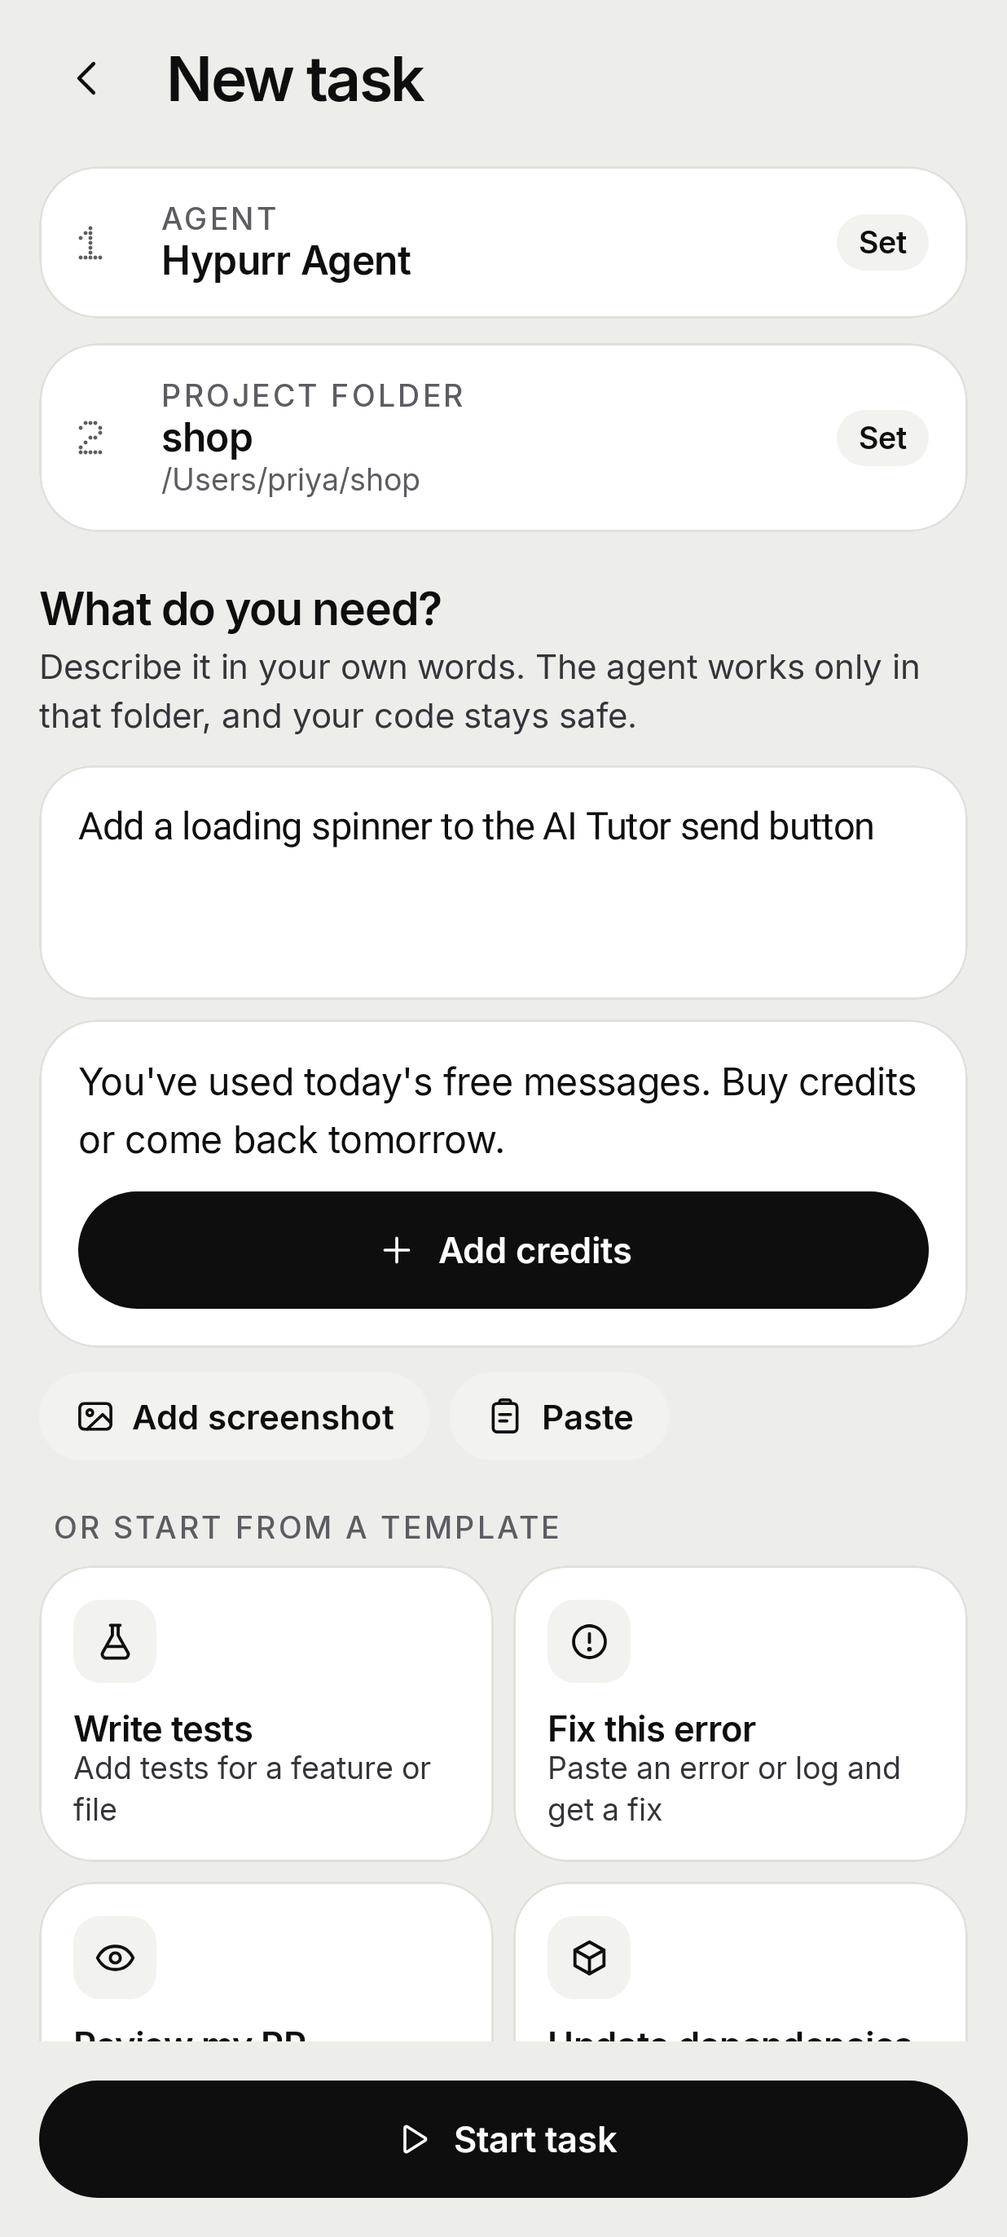
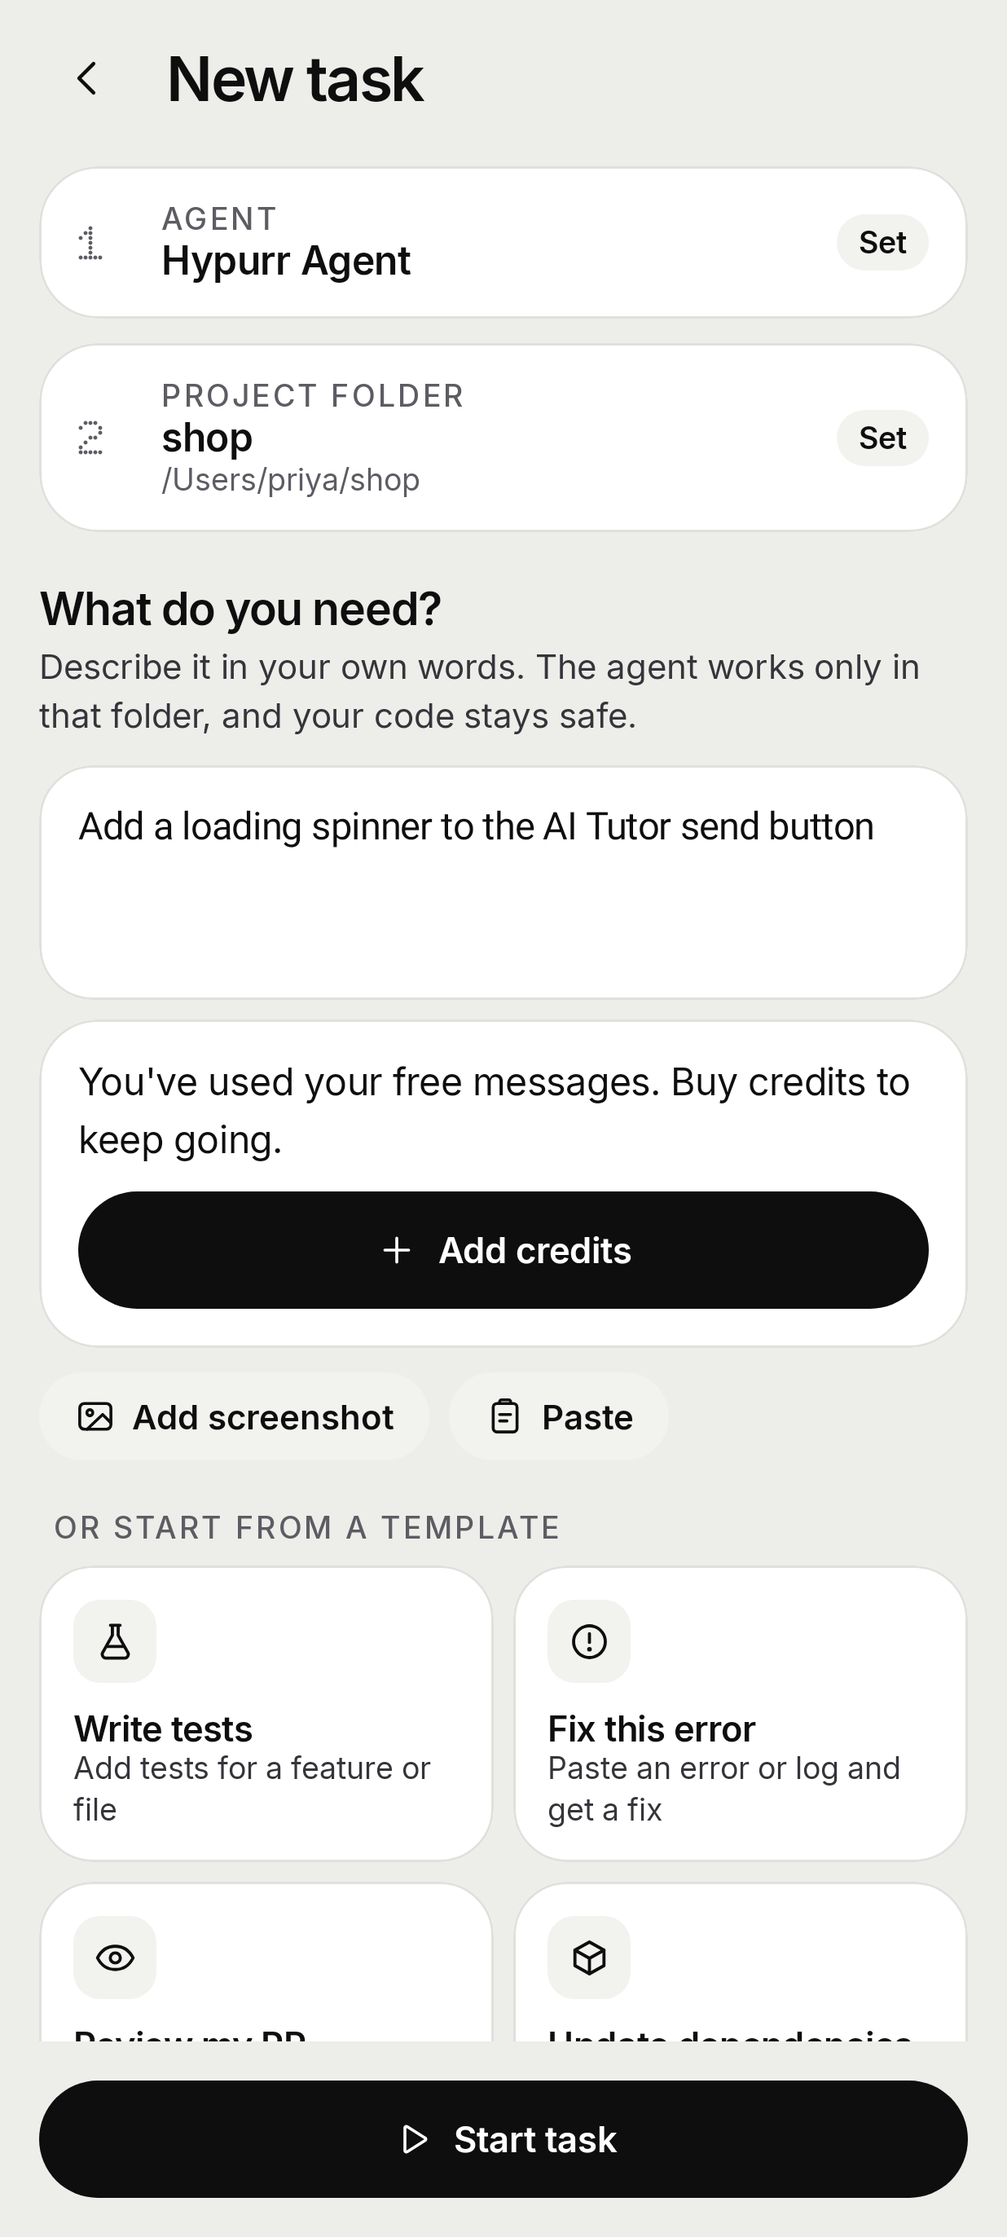
Free allowance is lifetime (10 messages, 300k tokens); trial tied to hashed machine id, 2 keys/IP/day; reinstall rotates key, same allowance; new wording

Changed region(s): [[0.3074, 0.4645, 0.9223, 0.5264], [0.0922, 0.4954, 0.3074, 0.5264]]

diff --git a/cloud/test/gateway/gateway.test.ts b/cloud/test/gateway/gateway.test.ts
@@ -60,6 +60,9 @@ function memoryDb() {
             const subject = binds[0];
             return (tables.gateway_credits.find((r) => r.subject_id === subject) as T) ?? null;
           }
+          if (sql.includes("gateway_api_keys") && sql.includes("WHERE host_id = ?")) {
+            return (tables.gateway_api_keys.find((r) => r.host_id === binds[0] && r.kind === "trial" && !r.revoked_at) as T) ?? null;
+          }
           if (sql.includes("gateway_api_keys") && sql.includes("key_hash")) {
             const hash = binds[0];
             const row = tables.gateway_api_keys.find((r) => r.key_hash === hash && !r.revoked_at);
@@ -133,7 +136,10 @@ function memoryDb() {
           if (sql.includes("INSERT INTO gateway_usage")) {
             tables.gateway_usage.push({ binds: [...binds] });
           }
-          if (sql.includes("INSERT INTO gateway_api_keys")) {
+          if (sql.includes("INSERT INTO gateway_api_keys") && sql.includes("'trial', 'trial'")) {
+            const [id, host_id, key_hash, key_prefix, created_at] = binds as any;
+            tables.gateway_api_keys.push({ id, user_id: null, host_id, key_hash, key_prefix, kind: "trial", created_at, revoked_at: null });
+          } else if (sql.includes("INSERT INTO gateway_api_keys")) {
             tables.gateway_api_keys.push({
               id: binds[0],
               user_id: binds[1],
@@ -145,6 +151,10 @@ function memoryDb() {
               created_at: binds[7],
               revoked_at: null,
             });
+          }
+          if (sql.includes("UPDATE gateway_api_keys SET revoked_at")) {
+            const row = tables.gateway_api_keys.find((r) => r.id === binds[1]);
+            if (row) row.revoked_at = binds[0];
           }
           if (sql.includes("UPDATE gateway_api_keys SET last_used_at")) {
             /* noop */
@@ -383,7 +393,7 @@ describe("openrouter defaults", () => {
     const refused = (await openTurn(ctx(db, "/v1/gateway/turn", {}, auth))) as Response;
     expect(refused.status).toBe(402);
     expect(((await refused.json()) as any).error.message).toBe(FREE_EXHAUSTED);
-    expect(FREE_EXHAUSTED).toBe("You've used today's free messages. Buy credits or come back tomorrow.");
+    expect(FREE_EXHAUSTED).toBe("You've used your free messages. Buy credits to keep going.");
     // With credits the 11th message goes through and its model calls are charged.
     await topUp(db, "user:u9", 100, {}, 1);
     const paid = (await openTurn(ctx(db, "/v1/gateway/turn", {}, auth))) as any;
@@ -440,12 +450,41 @@ describe("trial keys", () => {
     const { issueTrial } = await import("../../src/gateway/handler");
     const n = DEFAULT_GATEWAY_CONFIG.trialKeysPerIpPerDay;
     for (let i = 0; i < n; i++) {
-      await issueTrial(ctx(db, "/v1/gateway/trial-key", { hostId: `host-000${i}` }, { "cf-connecting-ip": "1.2.3.4" }));
+      await issueTrial(ctx(db, "/v1/gateway/trial-key", { hostId: `${i}`.padStart(64, "a") }, { "cf-connecting-ip": "1.2.3.4" }));
     }
     await expect(
-      issueTrial(ctx(db, "/v1/gateway/trial-key", { hostId: "host-9999" }, { "cf-connecting-ip": "1.2.3.4" })),
+      issueTrial(ctx(db, "/v1/gateway/trial-key", { hostId: "b".repeat(64) }, { "cf-connecting-ip": "1.2.3.4" })),
     ).rejects.toMatchObject({ code: "rateLimited" });
     await expect(issueTrial(ctx(db, "/v1/gateway/trial-key", { hostId: "x" }, {}))).rejects.toMatchObject({ code: "badRequest" });
+    expect(n).toBe(2);
+  });
+
+  it("the same PC (reinstalled) gets a new key but keeps its used free allowance", async () => {
+    const db = memoryDb();
+    const { issueTrial, openTurn } = await import("../../src/gateway/handler");
+    const pc = "c".repeat(64);
+    const first = (await issueTrial(ctx(db, "/v1/gateway/trial-key", { hostId: pc }, { "cf-connecting-ip": "9.9.9.1" }))) as any;
+    for (let i = 0; i < DEFAULT_GATEWAY_CONFIG.freeDailyMessages; i++) {
+      await openTurn(ctx(db, "/v1/gateway/turn", {}, { authorization: `Bearer ${first.apiKey}` }));
+    }
+    const again = (await issueTrial(ctx(db, "/v1/gateway/trial-key", { hostId: pc }, { "cf-connecting-ip": "9.9.9.2" }))) as any;
+    expect(again.apiKey).toBeTruthy();
+    expect(again.apiKey).not.toBe(first.apiKey);
+    await expect(openTurn(ctx(db, "/v1/gateway/turn", {}, { authorization: `Bearer ${first.apiKey}` }))).rejects.toMatchObject({ code: "unauthenticated" });
+    const r = (await openTurn(ctx(db, "/v1/gateway/turn", {}, { authorization: `Bearer ${again.apiKey}` }))) as Response;
+    expect(r.status).toBe(402);
+  });
+
+  it("free messages are lifetime: a new day doesn't refill them", async () => {
+    const db = memoryDb();
+    const { secret, hash, prefix } = await mintKeySecret();
+    (db as any)._tables.gateway_api_keys.push({ id: "k", user_id: "u7", host_id: null, key_hash: hash, key_prefix: prefix, kind: "user", revoked_at: null });
+    const { openTurn } = await import("../../src/gateway/handler");
+    const auth = { authorization: `Bearer ${secret}` };
+    for (let i = 0; i < 10; i++) await openTurn(ctx(db, "/v1/gateway/turn", {}, auth));
+    const later = { ...ctx(db, "/v1/gateway/turn", {}, auth), now: Date.UTC(2026, 11, 25) };
+    expect(((await openTurn(later)) as Response).status).toBe(402);
+    expect(DEFAULT_GATEWAY_CONFIG.freeLifetime).toBe(true);
   });
 });
 

diff --git a/cloud/src/gateway/config.ts b/cloud/src/gateway/config.ts
@@ -13,7 +13,9 @@ export type UpstreamAdapter = {
 
 export type GatewayConfig = {
   freeDailyTokens: number;
-  /** Free user messages (phone turns) per subject per UTC day. The product's free allowance. */
+  /** Free allowance is a lifetime total per subject (true), not per UTC day. */
+  freeLifetime: boolean;
+  /** Free user messages (phone turns) per subject, ever (see freeLifetime). The product's free allowance. */
   freeDailyMessages: number;
   /** Abuse limits: max_tokens is clamped to this on every request. */
   maxOutputTokens: number;
@@ -52,12 +54,13 @@ export type GatewayConfig = {
 // Paid-per-token (not ":free") variants on purpose: ":free" routes are heavily rate-limited and
 // may log prompts. All of these support tool calls, which Hypurr Agent needs.
 export const DEFAULT_GATEWAY_CONFIG: GatewayConfig = {
-  // Hidden safety cap behind the 10 messages; past it a turn needs credits.
+  freeLifetime: true,
+  // Hidden lifetime safety cap behind the 10 messages; past it a turn needs credits.
   freeDailyTokens: 300_000,
   freeDailyMessages: 10,
   maxOutputTokens: 8_192,
   maxPromptTokens: 120_000,
-  trialKeysPerIpPerDay: 5,
+  trialKeysPerIpPerDay: 2,
   // Kill switch ≈ US$1/day: agent turns are input-heavy, so hypurr-free blends to about
   // $0.12 per 1M tokens (incl. markup) → ~8M tokens.
   globalFreeDailyTokens: 8_000_000,

diff --git a/apps/android/app/src/main/java/com/ragul84/hypurr/ui/screens/SpendScreen.kt b/apps/android/app/src/main/java/com/ragul84/hypurr/ui/screens/SpendScreen.kt
@@ -208,7 +208,7 @@ fun SpendScreen(
                             Row(verticalAlignment = Alignment.CenterVertically) {
                                 Icon(signalIcon(SignalIcons.Shield), null, tint = c.text, modifier = Modifier.size(16.dp))
                                 Spacer(Modifier.width(8.dp))
-                                Text("Free messages today · ${data.freeResetLabel ?: "resets daily"}", color = c.secondary,
+                                Text("Free messages used", color = c.secondary,
                                     style = MaterialTheme.typography.labelMedium, modifier = Modifier.weight(1f), maxLines = 1)
                                 DotFigure("$used", SignalType.figureSmall, c.text)
                                 Text(" / $limit", color = c.tertiary, style = MaterialTheme.typography.labelMedium)
@@ -260,7 +260,7 @@ private fun paceLine(data: TaskCosts, freeLeft: Int): String {
     val credits = data.gatewayCreditsLabel?.filter { it.isDigit() || it == '.' }?.toDoubleOrNull() ?: 0.0
     val perDay = data.week / 7.0
     return when {
-        credits <= 0.0 && freeLeft > 0 -> "$freeLeft free messages left today"
+        credits <= 0.0 && freeLeft > 0 -> "$freeLeft free messages left"
         perDay <= 0.0 -> "No spend this week"
         else -> {
             val days = (credits / perDay).toInt()

diff --git a/cloud/src/gateway/auth.ts b/cloud/src/gateway/auth.ts
@@ -75,7 +75,9 @@ export async function issueTrialKey(db: D1Database, hostId: string, now = Date.n
     .bind(hostId)
     .first<{ id: string; key_prefix: string }>();
   if (existing) {
-    return { id: existing.id, secret: null as string | null, prefix: existing.key_prefix, reused: true };
+    // Same PC again (e.g. reinstalled): retire the old key and hand out a new one. The subject
+    // (trial:<hostId>) and its lifetime free allowance stay the same.
+    await db.prepare(`UPDATE gateway_api_keys SET revoked_at = ? WHERE id = ?`).bind(now, existing.id).run();
   }
   const { secret, prefix, hash } = await mintKeySecret();
   const id = `key_${randomId(8)}`;
@@ -86,7 +88,7 @@ export async function issueTrialKey(db: D1Database, hostId: string, now = Date.n
     )
     .bind(id, hostId, hash, prefix, now)
     .run();
-  return { id, secret, prefix, reused: false };
+  return { id, secret: secret as string | null, prefix, reused: Boolean(existing) };
 }
 
 export async function issueUserKey(db: D1Database, userId: string, label = "default", now = Date.now()) {

diff --git a/cloud/src/gateway/handler.ts b/cloud/src/gateway/handler.ts
@@ -91,7 +91,7 @@ export function usageTap(
   });
 }
 
-export const FREE_EXHAUSTED = "You've used today's free messages. Buy credits or come back tomorrow.";
+export const FREE_EXHAUSTED = "You've used your free messages. Buy credits to keep going.";
 
 const rateBuckets = new Map<string, { n: number; reset: number }>();
 
@@ -456,7 +456,9 @@ export async function issueTrial(c: Ctx) {
   } catch {
     throw new ApiError("badRequest");
   }
-  if (!body.hostId || !/^[A-Za-z0-9_-]{8,128}$/.test(body.hostId)) throw new ApiError("badRequest");
+  // hostId is a hash of the PC's stable machine id (host/src/agent/builtin.rs), so reinstalling
+  // gets a new key for the same subject and the same (used) free allowance.
+  if (!body.hostId || !/^[a-f0-9]{64}$/.test(body.hostId)) throw new ApiError("badRequest");
   // Free trial keys are the farmable resource: cap new ones per client IP per day.
   const ip = c.req.headers.get("cf-connecting-ip") ?? "unknown";
   if (!(await allowTrialIp(c.env.DB, ip, cfg.trialKeysPerIpPerDay, c.now))) throw new ApiError("rateLimited");

diff --git a/apps/android/app/src/main/java/com/ragul84/hypurr/ui/FreeMessages.kt b/apps/android/app/src/main/java/com/ragul84/hypurr/ui/FreeMessages.kt
@@ -12,14 +12,14 @@ import androidx.compose.ui.unit.dp
 import com.ragul84.hypurr.ui.theme.Hypurr
 
 /** Same words as the host and gateway (host/src/agent/builtin.rs FREE_EXHAUSTED). */
-const val FREE_MESSAGES_EXHAUSTED = "You've used today's free messages. Buy credits or come back tomorrow."
+const val FREE_MESSAGES_EXHAUSTED = "You've used your free messages. Buy credits to keep going."
 
 fun freeMessagesLine(left: Int, limit: Int): String =
-    "${left.coerceIn(0, limit)} of $limit free ${if (limit == 1) "message" else "messages"} left today"
+    "${left.coerceIn(0, limit)} of $limit free ${if (limit == 1) "message" else "messages"} left"
 
 /**
  * Hypurr's free models are counted in messages (one per task turn sent from the phone).
- * Shows "N of 10 free messages left today", or the plain used-up line with Add credits.
+ * Shows "N of 10 free messages left" (a lifetime total), or the plain used-up line with Add credits.
  */
 @Composable
 fun FreeMessagesNote(left: Int, limit: Int, onAddCredits: () -> Unit, modifier: Modifier = Modifier) {

diff --git a/cloud/src/gateway/ledger.ts b/cloud/src/gateway/ledger.ts
@@ -27,7 +27,8 @@ export async function getAllowance(
   now = Date.now(),
 ): Promise<Allowance> {
   const limit = kind === "trial" ? cfg.trialDailyTokens : cfg.freeDailyTokens;
-  const periodStart = dayBucket(now);
+  // Lifetime allowance: one bucket forever (cfg.freeLifetime); otherwise per UTC day.
+  const periodStart = cfg.freeLifetime ? 0 : dayBucket(now);
   const row = await db
     .prepare(`SELECT tokens_used, tokens_limit, period_start, messages_used FROM gateway_allowance WHERE subject_id = ?`)
     .bind(subjectId)

diff --git a/apps/android/app/src/main/java/com/ragul84/hypurr/ui/screens/NewTaskScreen.kt b/apps/android/app/src/main/java/com/ragul84/hypurr/ui/screens/NewTaskScreen.kt
@@ -129,7 +129,7 @@ fun NewTaskScreen(
     onPickIssue: () -> Unit = {},
     /** Opens the project-folder picker (folders listed by the computer). */
     onPickFolder: () -> Unit = {},
-    /** Free messages left today on Hypurr's models (null: no gateway on this computer). */
+    /** Free messages left (lifetime) on Hypurr's models (null: no gateway on this computer). */
     freeLeft: Int? = null,
     freeLimit: Int? = null,
     onAddCredits: () -> Unit = {},

diff --git a/host/src/agent/builtin.rs b/host/src/agent/builtin.rs
@@ -91,13 +91,7 @@ pub async fn gateway_key(store: &crate::store::Store, base: &str) -> Result<Stri
     if let Some(k) = crate::market::vault::read(store, GATEWAY_KEY_SLOT)?.filter(|k| !k.is_empty()) {
         return Ok(k);
     }
-    let host_id = if let Some(id) = store.kv_get(GATEWAY_HOST_ID) {
-        id
-    } else {
-        let id = uuid::Uuid::new_v4().simple().to_string();
-        store.kv_set(GATEWAY_HOST_ID, &id)?;
-        id
-    };
+    let host_id = gateway_host_id(store)?;
     let client = reqwest::Client::builder().timeout(Duration::from_secs(15)).build()?;
     let res = client
         .post(format!("{}/v1/gateway/trial-key", base.trim_end_matches('/')))
@@ -117,30 +111,54 @@ pub async fn gateway_key(store: &crate::store::Store, base: &str) -> Result<Stri
 }
 
 /// Shown on the phone when the day's free messages are used and there are no credits.
-pub const FREE_EXHAUSTED: &str = "You've used today's free messages. Buy credits or come back tomorrow.";
-/// Free messages per day (pricing/plans.json `freeMessagesPerDay`; the gateway enforces it).
+pub const FREE_EXHAUSTED: &str = "You've used your free messages. Buy credits to keep going.";
+/// Free messages in total, ever (pricing/plans.json `freeMessages`; the gateway enforces it).
 pub const FREE_MESSAGES_PER_DAY: i64 = 10;
-/// kv: `<left>|<UTC day>` from the gateway's last answer.
+/// kv: free messages left, from the gateway's last answer.
 const FREE_LEFT: &str = "gateway_free_left";
 
-fn utc_day() -> i64 {
-    chrono_free_day(std::time::SystemTime::now())
-}
-
-fn chrono_free_day(t: std::time::SystemTime) -> i64 {
-    let secs = t.duration_since(std::time::UNIX_EPOCH).map_or(0, |d| d.as_secs());
-    i64::try_from(secs / 86_400).unwrap_or(0)
-}
-
-/// Free messages left today as last reported by the gateway (a new UTC day resets it).
+/// Free messages left (lifetime) as last reported by the gateway.
 pub fn free_messages_left(store: &crate::store::Store) -> i64 {
-    store
-        .kv_get(FREE_LEFT)
-        .and_then(|v| {
-            let (left, day) = v.split_once('|')?;
-            (day.parse::<i64>().ok()? == utc_day()).then(|| left.parse::<i64>().ok())?
-        })
-        .unwrap_or(FREE_MESSAGES_PER_DAY)
+    store.kv_get(FREE_LEFT).and_then(|v| v.parse().ok()).unwrap_or(FREE_MESSAGES_PER_DAY)
+}
+
+/// This PC's stable machine id (survives reinstalling Hypurr), if the OS has one.
+fn machine_id() -> Option<String> {
+    #[cfg(target_os = "linux")]
+    let raw = ["/etc/machine-id", "/var/lib/dbus/machine-id"].iter().find_map(|p| std::fs::read_to_string(p).ok());
+    #[cfg(windows)]
+    let raw = std::process::Command::new("reg")
+        .args(["query", r"HKLM\SOFTWARE\Microsoft\Cryptography", "/v", "MachineGuid"])
+        .output()
+        .ok()
+        .and_then(|o| String::from_utf8(o.stdout).ok())
+        .and_then(|t| t.split_whitespace().last().map(str::to_owned));
+    #[cfg(target_os = "macos")]
+    let raw = std::process::Command::new("ioreg")
+        .args(["-rd1", "-c", "IOPlatformExpertDevice"])
+        .output()
+        .ok()
+        .and_then(|o| String::from_utf8(o.stdout).ok())
+        .and_then(|t| {
+            t.lines().find(|l| l.contains("IOPlatformUUID")).and_then(|l| l.split('"').nth(3)).map(str::to_owned)
+        });
+    #[cfg(not(any(target_os = "linux", windows, target_os = "macos")))]
+    let raw: Option<String> = None;
+    raw.map(|s| s.trim().to_owned()).filter(|s| s.len() >= 8)
+}
+
+/// The id this PC uses at the gateway: SHA-256 of the machine id (never sent raw), so the same
+/// PC keeps one free allowance across reinstalls. Falls back to a saved random id.
+fn gateway_host_id(store: &crate::store::Store) -> Result<String> {
+    let id = if let Some(m) = machine_id() {
+        sha256_hex(format!("hypurr-gateway:{m}").as_bytes())
+    } else if let Some(id) = store.kv_get(GATEWAY_HOST_ID).filter(|v| v.len() == 64) {
+        id
+    } else {
+        sha256_hex(uuid::Uuid::new_v4().as_bytes())
+    };
+    store.kv_set(GATEWAY_HOST_ID, &id)?;
+    Ok(id)
 }
 
 /// Whether a turn with this backend and model runs on Hypurr's gateway.
@@ -166,7 +184,7 @@ pub async fn open_turn(store: &crate::store::Store) -> Result<()> {
     let status = res.status();
     let v: Value = res.json().await.unwrap_or_default();
     if let Some(left) = v["freeMessagesLeft"].as_i64() {
-        store.kv_set(FREE_LEFT, &format!("{left}|{}", utc_day()))?;
+        store.kv_set(FREE_LEFT, &left.to_string())?;
     }
     if status.as_u16() == 402 {
         bail!(FREE_EXHAUSTED);
@@ -522,15 +540,17 @@ mod tests {
     }
 
     #[test]
-    fn free_messages_default_and_reset_by_day() {
+    fn free_messages_are_lifetime_and_host_id_is_hashed() {
         let store = crate::store::Store::open(Path::new(":memory:")).unwrap();
         assert_eq!(free_messages_left(&store), 10);
-        store.kv_set(FREE_LEFT, &format!("3|{}", utc_day())).unwrap();
-        assert_eq!(free_messages_left(&store), 3);
-        store.kv_set(FREE_LEFT, &format!("0|{}", utc_day() - 1)).unwrap();
-        assert_eq!(free_messages_left(&store), 10, "yesterday's count doesn't carry over");
-        assert!(FREE_EXHAUSTED.starts_with("You've used today's free messages."));
+        store.kv_set(FREE_LEFT, "0").unwrap();
+        assert_eq!(free_messages_left(&store), 0);
+        assert_eq!(FREE_EXHAUSTED, "You've used your free messages. Buy credits to keep going.");
         assert!(!uses_gateway("claude", Some("hypurr/hypurr-free")));
+        let a = gateway_host_id(&store).unwrap();
+        assert_eq!(a.len(), 64);
+        assert!(a.chars().all(|c| c.is_ascii_hexdigit()));
+        assert_eq!(a, gateway_host_id(&store).unwrap(), "stable on the same PC");
     }
 
     #[test]

diff --git a/cloud/DEPLOY.md b/cloud/DEPLOY.md
@@ -76,21 +76,21 @@ until the deploy is live. `HYPURR_GATEWAY_URL=https://…` overrides it (e.g. th
 
 ## Free messages and limits (cloud/src/gateway/config.ts, overridable with the GATEWAY_CONFIG_JSON var)
 
-The free allowance is **10 messages per user per UTC day**. A message is one task turn sent from
+The free allowance is **10 messages per user in total, ever** (not per day); after that, credits only. Trial keys are tied to a SHA-256 of the PC's machine id, sent by the host; reinstalling gets a new key for the same subject and the same used allowance. A message is one task turn sent from
 the phone: the host calls `POST /v1/gateway/turn` once at the start of the turn, and all the
 agent's model calls inside that turn are free of further counting. The answer carries
 `freeMessagesLeft` (also in `GET /v1/gateway/balance` as `free.messagesLeft`). After the 10th, a
 turn is paid from credits; with no credits the gateway answers 402 with
-"You've used today's free messages. Buy credits or come back tomorrow."
+"You've used your free messages. Buy credits to keep going."
 
 | Setting | Default |
 |---|---|
-| Free messages per user / trial key per UTC day | 10 |
-| Hidden token cap per user per day (then credits) | 300,000 |
+| Free messages per user / PC, lifetime | 10 |
+| Hidden token cap per user / PC, lifetime (then credits) | 300,000 |
 | Requests per minute per key | 20 |
 | Max output tokens per request | 8,192 |
 | Max prompt per request | 120,000 tokens |
-| New trial keys per IP per day | 5 |
+| New trial keys per IP per day | 2 |
 | All free usage per day (kill switch) | 8M tokens ≈ US$1 |
 
 Credit packs (`pricing/plans.json`): ₹99 ≈ 150 messages, ₹249 ≈ 400, ₹499 ≈ 850, assuming
